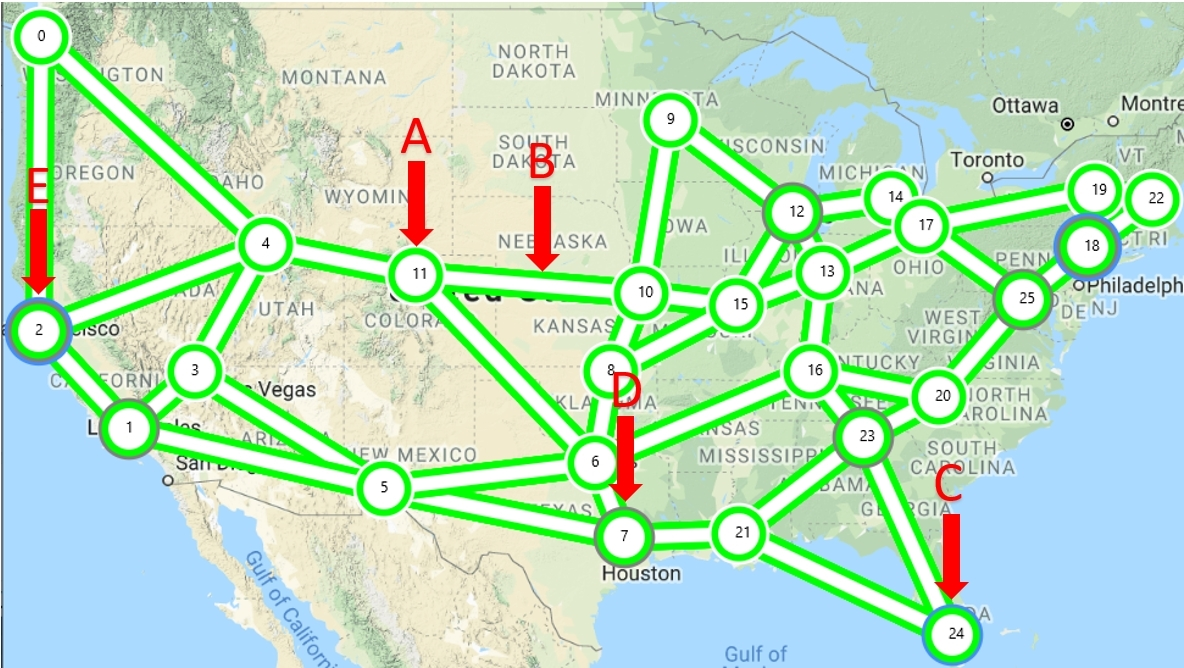
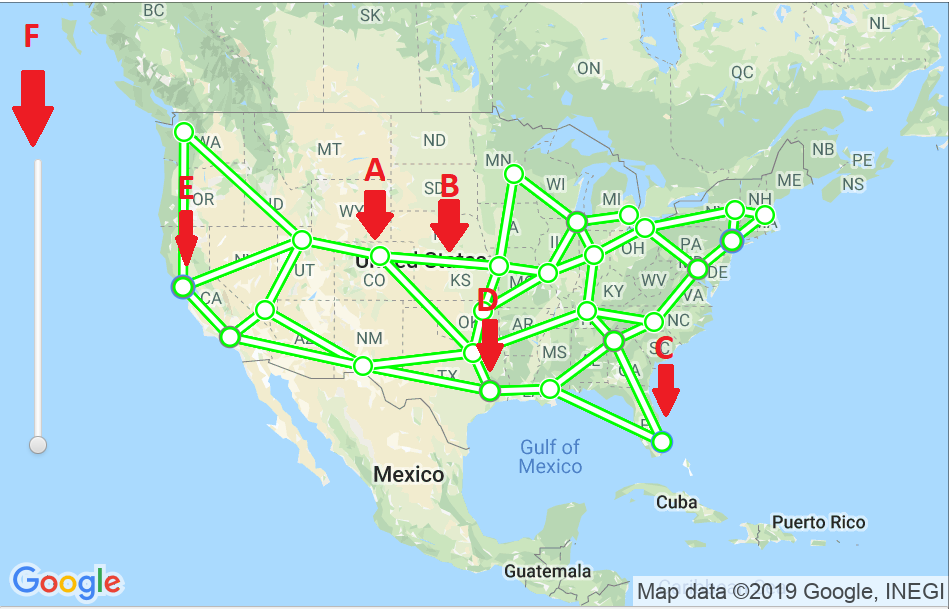
Updated Network topology with nodes and links
Updated screenshot and the information related to it

diff --git a/README.md b/README.md
@@ -66,7 +66,7 @@ Upon setup completion, you will be able to run the simulator with the following 
 
     7. Cancel or clear simulation
 
-4. Create network topology (Currently under development)
+4. Create network topology
 
     8. Saving Google Maps API key to file
 
@@ -120,6 +120,7 @@ Upon setup completion, you will be able to run the simulator with the following 
 3. Changes the drawing state to allow user to drag a loaded map around.
 
 **E:** Language dropdown allows you to choose the language that the simulator will be displayed in.
+
 
 ## 3a) Simulation Settings Controller (Single Simulation)
 ![image alt text](./docs/image_21.png)
@@ -214,7 +215,7 @@ This section is currently under development.  The idea for this area is to hold 
     <td>A</td>
     <td>Standard node (indicated by white outline)  
 
-Number refers to node number (e.g., node_<num>) in network topology  
+
 
 The thicker colored line in the node indicates regenerator usage <br />
 Green: Has more than 50 regenerators remaining<br />
@@ -241,6 +242,10 @@ Red: More than 80% link utilization</td>
   <tr>
     <td>E</td>
     <td>International and data center node (indicated by a blue and a grey outline)</td>
+  </tr>
+  <tr>
+  <td>F</td>
+  <td>Zoom slider that lets you zoom in and out of the map</td>
   </tr>
 </table>
 
